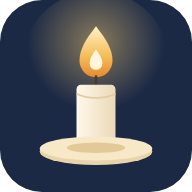
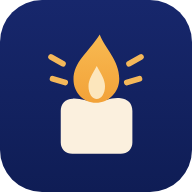
보내주신 촛불 그림으로 앱 아이콘과 머리글 아이콘 교체
Claude-Session: https://claude.ai/code/session_0132g5UJm8uz5i24szpe95AM

diff --git a/index.html b/index.html
@@ -1,6 +1,6 @@
 <!doctype html><html lang="ko"><head><meta charset="utf-8">
 <meta name="viewport" content="width=device-width, initial-scale=1, viewport-fit=cover">
-<meta name="theme-color" content="#16244F"><link rel="manifest" href="manifest.json?v=3"><link rel="icon" href="icon.svg?v=3"><link rel="apple-touch-icon" href="apple-touch-icon.png?v=3"><meta name="apple-mobile-web-app-title" content="기도의 촛불"><meta name="apple-mobile-web-app-capable" content="yes">
+<meta name="theme-color" content="#16244F"><link rel="manifest" href="manifest.json?v=4"><link rel="icon" href="icon.svg?v=4"><link rel="apple-touch-icon" href="apple-touch-icon.png?v=4"><meta name="apple-mobile-web-app-title" content="기도의 촛불"><meta name="apple-mobile-web-app-capable" content="yes">
 <style>:root{padding-top:env(safe-area-inset-top,0px);padding-bottom:env(safe-area-inset-bottom,0px)}[hidden]{display:none!important}img{max-width:100%}</style>
 </head><body>
 <script src="config.js"></script><script src="vendor/supabase.js"></script>
@@ -34,8 +34,8 @@ button { cursor: pointer; -webkit-tap-highlight-color: transparent; }
 /* top bar */
 .topbar { position: sticky; top: env(safe-area-inset-top, 0px); z-index: 5; background: var(--bg); padding-block: 14px 12px; margin-inline: -16px; padding-inline: 16px; display: flex; align-items: center; justify-content: space-between; gap: 8px; }
 .brand { min-width: 0; display: flex; align-items: center; gap: 9px; background: none; border: 0; padding: 0; text-align: left; }
-.brand .mark { flex: none; width: 38px; height: 38px; border-radius: 10px; background: #1B2945; display: grid; place-items: center; box-shadow: 0 3px 10px rgba(23, 32, 74, .25); }
-.brand .mark svg { width: 34px; height: 34px; }
+.brand .mark { flex: none; width: 38px; height: 38px; border-radius: 10px; background: linear-gradient(#17276C, #0F1D55); display: grid; place-items: center; box-shadow: 0 3px 10px rgba(23, 32, 74, .25); }
+.brand .mark svg { width: 38px; height: 38px; }
 .brand-txt { min-width: 0; display: flex; flex-direction: column; line-height: 1.25; }
 .not-home .brand-sub { display: none; }
 @font-face { font-family: "MaruBuri"; font-weight: 300; font-display: swap; src: url("fonts/MaruBuri-Light.woff2") format("woff2"); }
@@ -484,8 +484,8 @@ textarea.paper { width: 100%; min-height: 260px; resize: vertical; font-size: 16
 .join-bar { height: 5px; border-radius: 3px; background: var(--line); overflow: hidden; margin-top: -4px; }
 .join-bar i { display: block; height: 100%; background: linear-gradient(90deg, #E6A92E, #C98A12); transition: width .3s; }
 .join-hero { text-align: center; padding: 26px 0 8px; }
-.join-hero .mark { display: inline-grid; place-items: center; width: 64px; height: 64px; border-radius: 20px; background: radial-gradient(110% 100% at 100% 0%, var(--navy-2), var(--navy) 70%); box-shadow: 0 8px 22px rgba(23, 32, 74, .3); }
-.join-hero .mark svg { width: 40px; height: 40px; }
+.join-hero .mark { display: inline-grid; place-items: center; width: 64px; height: 64px; border-radius: 20px; background: linear-gradient(#17276C, #0F1D55); box-shadow: 0 8px 22px rgba(23, 32, 74, .3); }
+.join-hero .mark svg { width: 64px; height: 64px; }
 .join-hero h1 { font-family: var(--font-display); font-size: 23px; color: var(--navy); margin-top: 14px; }
 .join-hero p { color: var(--ink-2); margin: 6px 0 0; }
 .intro { display: grid; gap: 10px; }
@@ -856,7 +856,7 @@ body.is-home::before { content: ""; position: fixed; inset: 0; z-index: -1; back
 <div class="app">
   <header class="topbar">
     <button class="nav-back" id="navBack" data-act="nav-back" aria-label="이전으로" hidden><svg viewBox="0 0 24 24" fill="none" stroke="currentColor" stroke-width="2.4" stroke-linecap="round" stroke-linejoin="round"><path d="M15 5l-7 7 7 7"/></svg></button>
-    <button class="brand" data-tab="home" aria-label="홈으로"><span class="mark" aria-hidden="true"><svg viewBox="0 0 512 512"><defs><radialGradient id="cg" cx="50%" cy="34%" r="46%"><stop offset="0" stop-color="#F6CB74" stop-opacity=".5"/><stop offset="1" stop-color="#F6CB74" stop-opacity="0"/></radialGradient><linearGradient id="cf" x1="0" y1="0" x2="0" y2="1"><stop offset="0" stop-color="#FFF1C7"/><stop offset=".55" stop-color="#F6C060"/><stop offset="1" stop-color="#E58A2E"/></linearGradient><linearGradient id="cb" x1="0" y1="0" x2="1" y2="0"><stop offset="0" stop-color="#FFF8EA"/><stop offset="1" stop-color="#EBD9B8"/></linearGradient></defs><circle cx="256" cy="176" r="200" fill="url(#cg)"/><path d="M256 70c26 34 44 60 44 92a44 44 0 0 1-88 0c0-32 18-58 44-92z" fill="url(#cf)"/><path d="M256 132c10 14 17 24 17 37a17 17 0 0 1-34 0c0-13 7-23 17-37z" fill="#FFF6DE"/><path d="M256 204v22" stroke="#4A3A30" stroke-width="7" stroke-linecap="round"/><rect x="204" y="226" width="104" height="168" rx="12" fill="url(#cb)"/><path d="M204 250c16 8 34 11 52 11s36-3 52-11" fill="none" stroke="#E2CBA4" stroke-width="5"/><ellipse cx="256" cy="404" rx="150" ry="36" fill="#E9D3A8"/><ellipse cx="256" cy="396" rx="150" ry="32" fill="#F7E8C8"/><ellipse cx="256" cy="394" rx="78" ry="14" fill="#E2C996"/></svg></span><span class="brand-txt"><span class="brand-name">합력하여 <span class="sun">선</span>을 이루는 기도</span><small class="brand-sub">얼굴을 몰라도, 서로를 위해 기도하는 곳</small></span></button>
+    <button class="brand" data-tab="home" aria-label="홈으로"><span class="mark" aria-hidden="true"><svg viewBox="0 0 512 512"><defs><linearGradient id="nf" x1="0" y1="0" x2="0" y2="1"><stop offset="0" stop-color="#F8BA52"/><stop offset="1" stop-color="#F2A238"/></linearGradient></defs><g stroke="#F4B85A" stroke-width="15" stroke-linecap="round"><path d="M136 152l32 18M140 210l34 10M376 152l-32 18M372 210l-34 10"/></g><path d="M162 296c0-20 12-32 32-33 24-1 38 9 62 8 26-1 40-12 66-9 19 2 31 14 31 34v84c0 18-13 30-31 30H193c-18 0-31-12-31-30z" fill="#FBF0DE"/><path d="M266 92c14 38 52 68 52 118 0 36-28 64-62 64s-60-28-60-62c0-48 40-72 70-120z" fill="url(#nf)"/><path d="M258 176c12 22 22 36 22 54 0 20-10 34-22 34s-22-14-22-34c0-18 10-32 22-54z" fill="#FCE6BC"/></svg></span><span class="brand-txt"><span class="brand-name">합력하여 <span class="sun">선</span>을 이루는 기도</span><small class="brand-sub">얼굴을 몰라도, 서로를 위해 기도하는 곳</small></span></button>
     <div class="top-actions">
       <button class="icon-btn bell" data-act="notices" aria-label="공지사항"><svg viewBox="0 0 24 24" fill="none" stroke="currentColor" stroke-width="1.7" stroke-linecap="round" stroke-linejoin="round"><path d="M6 16V11a6 6 0 0 1 12 0v5l1.5 2h-15z"/><path d="M10 20.5a2 2 0 0 0 4 0"/></svg><i class="ndot" id="bellDot" hidden></i></button>
       <button class="icon-btn" data-tab="me" aria-label="내 정보"><svg viewBox="0 0 24 24" fill="none" stroke="currentColor" stroke-width="1.7" stroke-linecap="round"><circle cx="12" cy="8" r="5.5"/><path d="M4.5 21c.8-4 3.8-6 7.5-6s6.7 2 7.5 6"/></svg></button>

diff --git a/app.html b/app.html
@@ -28,8 +28,8 @@ button { cursor: pointer; -webkit-tap-highlight-color: transparent; }
 /* top bar */
 .topbar { position: sticky; top: env(safe-area-inset-top, 0px); z-index: 5; background: var(--bg); padding-block: 14px 12px; margin-inline: -16px; padding-inline: 16px; display: flex; align-items: center; justify-content: space-between; gap: 8px; }
 .brand { min-width: 0; display: flex; align-items: center; gap: 9px; background: none; border: 0; padding: 0; text-align: left; }
-.brand .mark { flex: none; width: 38px; height: 38px; border-radius: 10px; background: #1B2945; display: grid; place-items: center; box-shadow: 0 3px 10px rgba(23, 32, 74, .25); }
-.brand .mark svg { width: 34px; height: 34px; }
+.brand .mark { flex: none; width: 38px; height: 38px; border-radius: 10px; background: linear-gradient(#17276C, #0F1D55); display: grid; place-items: center; box-shadow: 0 3px 10px rgba(23, 32, 74, .25); }
+.brand .mark svg { width: 38px; height: 38px; }
 .brand-txt { min-width: 0; display: flex; flex-direction: column; line-height: 1.25; }
 .not-home .brand-sub { display: none; }
 @font-face { font-family: "MaruBuri"; font-weight: 300; font-display: swap; src: url("fonts/MaruBuri-Light.woff2") format("woff2"); }
@@ -478,8 +478,8 @@ textarea.paper { width: 100%; min-height: 260px; resize: vertical; font-size: 16
 .join-bar { height: 5px; border-radius: 3px; background: var(--line); overflow: hidden; margin-top: -4px; }
 .join-bar i { display: block; height: 100%; background: linear-gradient(90deg, #E6A92E, #C98A12); transition: width .3s; }
 .join-hero { text-align: center; padding: 26px 0 8px; }
-.join-hero .mark { display: inline-grid; place-items: center; width: 64px; height: 64px; border-radius: 20px; background: radial-gradient(110% 100% at 100% 0%, var(--navy-2), var(--navy) 70%); box-shadow: 0 8px 22px rgba(23, 32, 74, .3); }
-.join-hero .mark svg { width: 40px; height: 40px; }
+.join-hero .mark { display: inline-grid; place-items: center; width: 64px; height: 64px; border-radius: 20px; background: linear-gradient(#17276C, #0F1D55); box-shadow: 0 8px 22px rgba(23, 32, 74, .3); }
+.join-hero .mark svg { width: 64px; height: 64px; }
 .join-hero h1 { font-family: var(--font-display); font-size: 23px; color: var(--navy); margin-top: 14px; }
 .join-hero p { color: var(--ink-2); margin: 6px 0 0; }
 .intro { display: grid; gap: 10px; }
@@ -850,7 +850,7 @@ body.is-home::before { content: ""; position: fixed; inset: 0; z-index: -1; back
 <div class="app">
   <header class="topbar">
     <button class="nav-back" id="navBack" data-act="nav-back" aria-label="이전으로" hidden><svg viewBox="0 0 24 24" fill="none" stroke="currentColor" stroke-width="2.4" stroke-linecap="round" stroke-linejoin="round"><path d="M15 5l-7 7 7 7"/></svg></button>
-    <button class="brand" data-tab="home" aria-label="홈으로"><span class="mark" aria-hidden="true"><svg viewBox="0 0 512 512"><defs><radialGradient id="cg" cx="50%" cy="34%" r="46%"><stop offset="0" stop-color="#F6CB74" stop-opacity=".5"/><stop offset="1" stop-color="#F6CB74" stop-opacity="0"/></radialGradient><linearGradient id="cf" x1="0" y1="0" x2="0" y2="1"><stop offset="0" stop-color="#FFF1C7"/><stop offset=".55" stop-color="#F6C060"/><stop offset="1" stop-color="#E58A2E"/></linearGradient><linearGradient id="cb" x1="0" y1="0" x2="1" y2="0"><stop offset="0" stop-color="#FFF8EA"/><stop offset="1" stop-color="#EBD9B8"/></linearGradient></defs><circle cx="256" cy="176" r="200" fill="url(#cg)"/><path d="M256 70c26 34 44 60 44 92a44 44 0 0 1-88 0c0-32 18-58 44-92z" fill="url(#cf)"/><path d="M256 132c10 14 17 24 17 37a17 17 0 0 1-34 0c0-13 7-23 17-37z" fill="#FFF6DE"/><path d="M256 204v22" stroke="#4A3A30" stroke-width="7" stroke-linecap="round"/><rect x="204" y="226" width="104" height="168" rx="12" fill="url(#cb)"/><path d="M204 250c16 8 34 11 52 11s36-3 52-11" fill="none" stroke="#E2CBA4" stroke-width="5"/><ellipse cx="256" cy="404" rx="150" ry="36" fill="#E9D3A8"/><ellipse cx="256" cy="396" rx="150" ry="32" fill="#F7E8C8"/><ellipse cx="256" cy="394" rx="78" ry="14" fill="#E2C996"/></svg></span><span class="brand-txt"><span class="brand-name">합력하여 <span class="sun">선</span>을 이루는 기도</span><small class="brand-sub">얼굴을 몰라도, 서로를 위해 기도하는 곳</small></span></button>
+    <button class="brand" data-tab="home" aria-label="홈으로"><span class="mark" aria-hidden="true"><svg viewBox="0 0 512 512"><defs><linearGradient id="nf" x1="0" y1="0" x2="0" y2="1"><stop offset="0" stop-color="#F8BA52"/><stop offset="1" stop-color="#F2A238"/></linearGradient></defs><g stroke="#F4B85A" stroke-width="15" stroke-linecap="round"><path d="M136 152l32 18M140 210l34 10M376 152l-32 18M372 210l-34 10"/></g><path d="M162 296c0-20 12-32 32-33 24-1 38 9 62 8 26-1 40-12 66-9 19 2 31 14 31 34v84c0 18-13 30-31 30H193c-18 0-31-12-31-30z" fill="#FBF0DE"/><path d="M266 92c14 38 52 68 52 118 0 36-28 64-62 64s-60-28-60-62c0-48 40-72 70-120z" fill="url(#nf)"/><path d="M258 176c12 22 22 36 22 54 0 20-10 34-22 34s-22-14-22-34c0-18 10-32 22-54z" fill="#FCE6BC"/></svg></span><span class="brand-txt"><span class="brand-name">합력하여 <span class="sun">선</span>을 이루는 기도</span><small class="brand-sub">얼굴을 몰라도, 서로를 위해 기도하는 곳</small></span></button>
     <div class="top-actions">
       <button class="icon-btn bell" data-act="notices" aria-label="공지사항"><svg viewBox="0 0 24 24" fill="none" stroke="currentColor" stroke-width="1.7" stroke-linecap="round" stroke-linejoin="round"><path d="M6 16V11a6 6 0 0 1 12 0v5l1.5 2h-15z"/><path d="M10 20.5a2 2 0 0 0 4 0"/></svg><i class="ndot" id="bellDot" hidden></i></button>
       <button class="icon-btn" data-tab="me" aria-label="내 정보"><svg viewBox="0 0 24 24" fill="none" stroke="currentColor" stroke-width="1.7" stroke-linecap="round"><circle cx="12" cy="8" r="5.5"/><path d="M4.5 21c.8-4 3.8-6 7.5-6s6.7 2 7.5 6"/></svg></button>

diff --git a/sw.js b/sw.js
@@ -1,5 +1,5 @@
 // 오프라인에서도 열리도록 기본 파일을 저장해 둡니다.
-const CACHE = 'prayer-together-v15';
+const CACHE = 'prayer-together-v16';
 const FILES = ['./', './index.html', './manifest.json', './icon.svg', './icon-192.png', './apple-touch-icon.png', './hero.jpg', './water.jpg', './home-bg.jpg', './home-pray.jpg', './home-mine.jpg', './home-rooms.jpg', './fonts/MaruBuri-Light.woff2', './fonts/MaruBuri-Regular.woff2', './fonts/MaruBuri-Bold.woff2', './config.js', './vendor/supabase.js'];
 self.addEventListener('install', e => e.waitUntil(caches.open(CACHE).then(c => c.addAll(FILES))));
 self.addEventListener('activate', e => e.waitUntil(caches.keys().then(ks => Promise.all(ks.filter(k => k !== CACHE).map(k => caches.delete(k))))));
